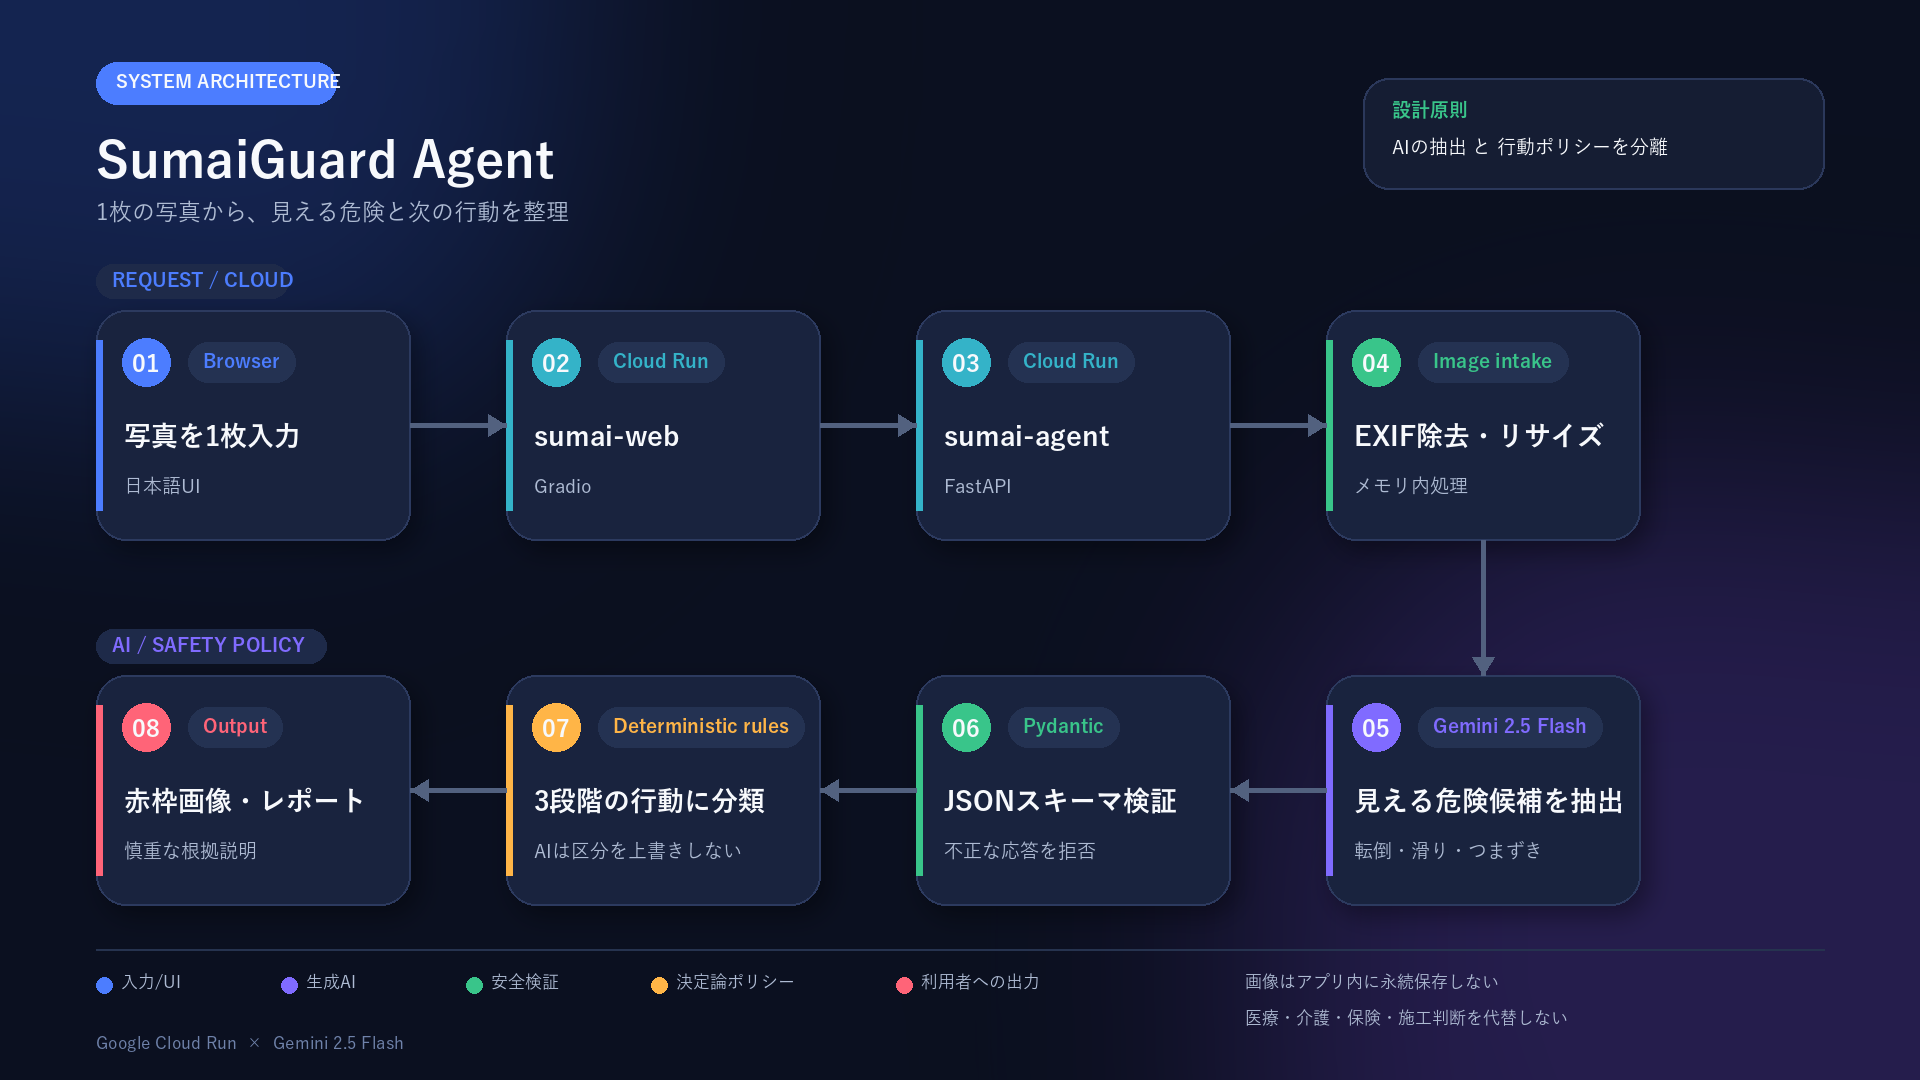
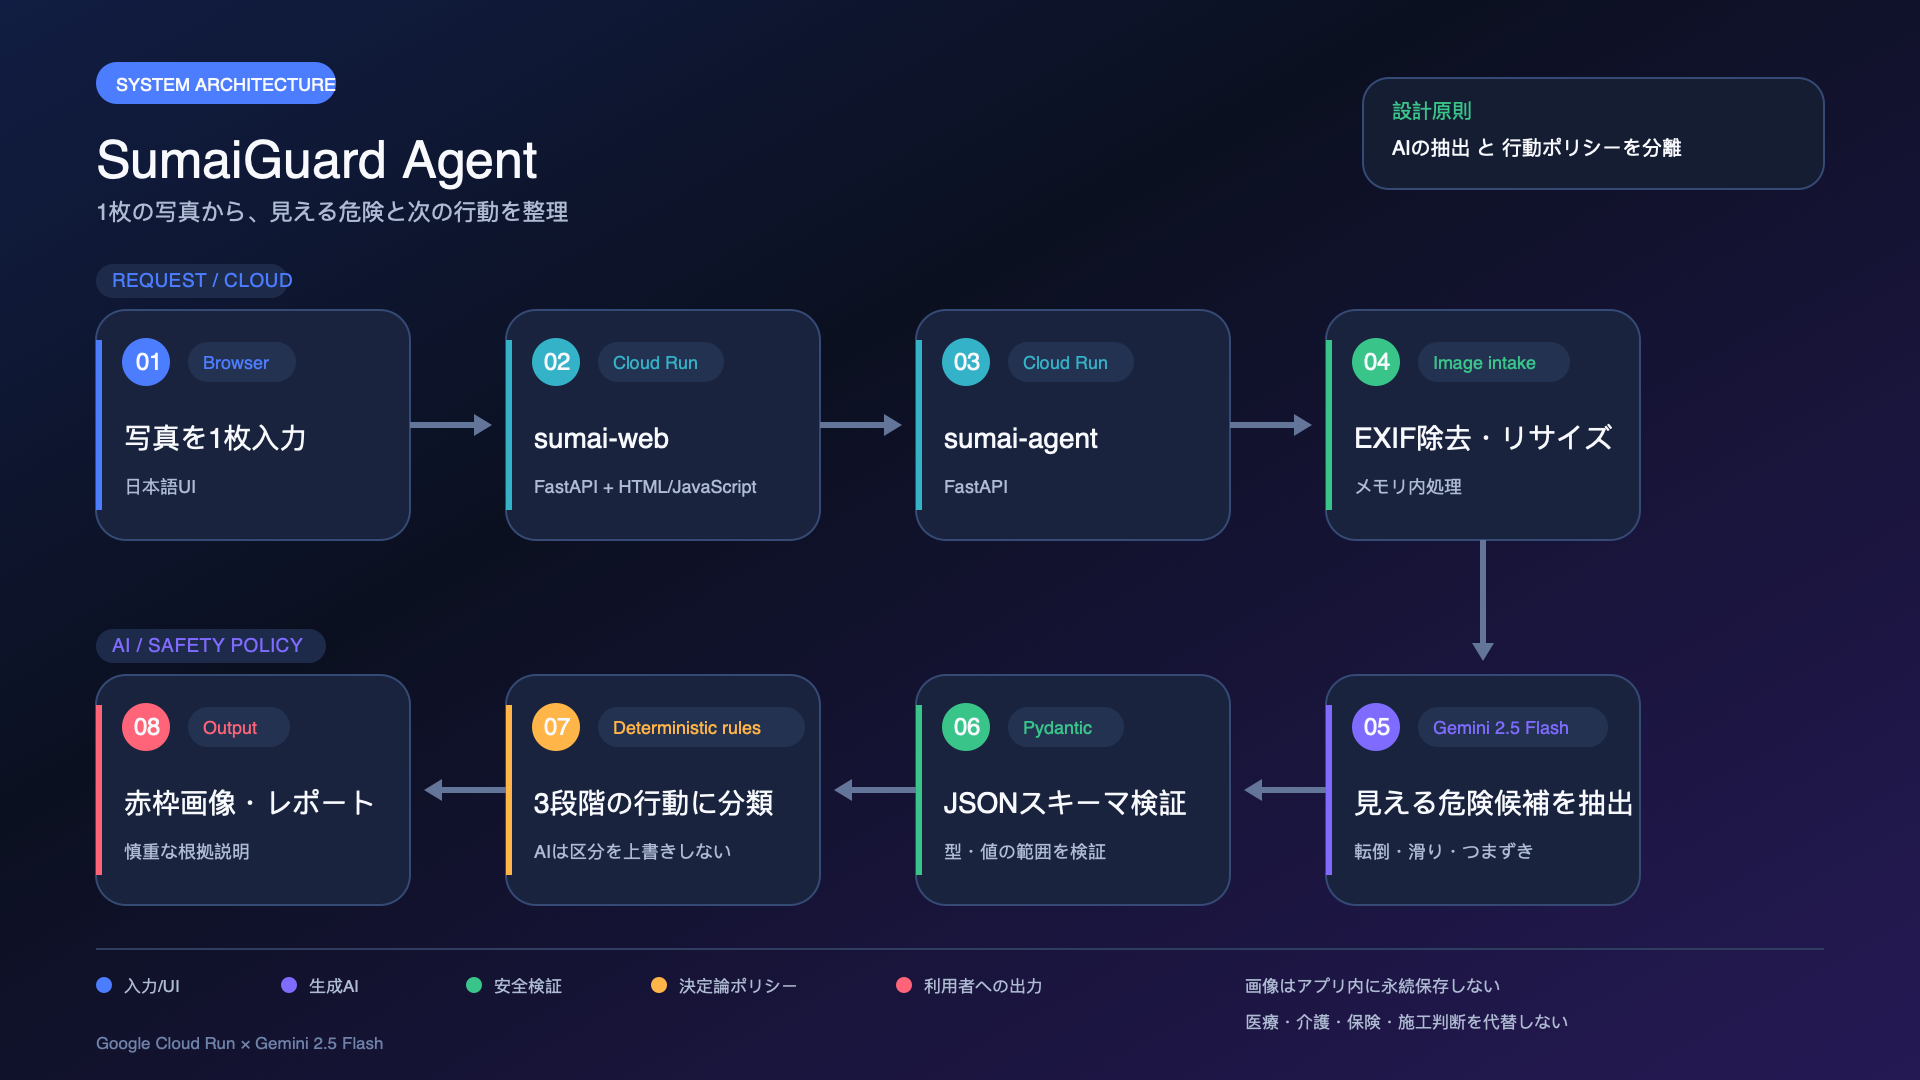
fix: correct ProtoPedia submission evidence

diff --git a/docs/submission/protopedia-draft-ja.md b/docs/submission/protopedia-draft-ja.md
@@ -6,7 +6,7 @@
 
 - **作品タイトル**: 親の家 安全チェックAI：1枚の写真から転倒リスクと次の行動を整理
 - **ステータス**: 開発中（動作する POC / Cloud Run 公開デモ）
-- **ひとこと概要**: 写真1枚から見える転倒リスクを赤枠化し、家族・福祉用具・専門施工の3段階へ整理するAIエージェント。
+- **ひとこと概要**: 写真1枚から見える転倒リスクを赤枠で可視化し、家族・福祉用具・専門施工の3段階へ整理するAIエージェント。
 - **カテゴリ候補**: アプリケーション / データサイエンス・AI・BOT
 - **関連イベント**: DevOps × AI Agent Hackathon 最新ツールでAIエージェント開発を体験しよう（2026）
 - **公開範囲**: 一般公開
@@ -14,7 +14,7 @@
 
 ## タグ
 
-`findy_hackathon` `AI` `生成AI` `AIエージェント` `Gemini` `GoogleCloud` `CloudRun` `FastAPI` `Gradio` `Python` `高齢者住宅` `転倒予防`
+`findy_hackathon` `AI` `生成AI` `AIエージェント` `Gemini` `GoogleCloud` `CloudRun` `FastAPI` `HTML` `JavaScript` `Python` `高齢者住宅` `転倒予防`
 
 必須タグ `findy_hackathon` は表記を変えずに登録します。
 
@@ -24,7 +24,7 @@
 - Gemini 2.5 Flash（Gemini API）
 - Python
 - FastAPI
-- Gradio
+- HTML / CSS / Vanilla JavaScript
 - Pydantic
 - Pillow
 - Docker / Docker Compose
@@ -56,7 +56,7 @@
    高齢者本人の年齢、病歴、介護度、転倒歴などを尋ねず、室内写真と任意の部屋ヒントだけで点検を始めます。
 
 2. **見える根拠を可視化**
-   写真で確認できる危険候補を赤枠と R1 / R2 / R3 のラベルで示し、根拠を慎重な日本語で説明します。写真が住宅内部でない場合や、明確な危険を確認できない場合も扱います。
+   写真で確認できる危険候補を赤枠と日本語ラベルで示し、根拠を慎重な日本語で説明します。写真が住宅内部でない場合や、明確な危険を確認できない場合も扱います。
 
 3. **AI抽出と行動判断を分離**
    Gemini は写真から見える候補の抽出を担当します。返却 JSON は Pydantic スキーマで検証し、その後の行動区分は決定論ルールが担当します。Gemini が「家族でできること」「福祉用具の相談」「専門施工」の境界を上書きしない設計です。
@@ -71,7 +71,7 @@
 
 ## AIエージェントと技術構成
 
-ブラウザから Cloud Run 上の `sumai-web`（Gradio）へ写真を送り、`sumai-agent`（FastAPI）が次の処理を順に実行します。
+ブラウザから Cloud Run 上の `sumai-web`（FastAPI が配信する HTML / CSS / Vanilla JavaScript UI）へ写真を送り、`sumai-agent`（FastAPI）が次の処理を順に実行します。
 
 1. 画像をメモリ上で読み込み、EXIF 除去、向き補正、RGB 化、最大 1600 px への縮小を実施
 2. Gemini 2.5 Flash が住宅内部かを確認し、写真で見える危険候補と正規化座標を構造化 JSON で抽出
@@ -105,8 +105,9 @@
 ## システム構成画像
 
 - **ファイル**: `docs/submission/assets/sumai-guard-architecture.png`
+- **編集可能な原本**: `docs/submission/assets/sumai-guard-architecture.svg`
 - **サイズ**: 1920×1080
-- **説明文**: Browser → Cloud Run（sumai-web / sumai-agent）→ EXIF除去・リサイズ → Gemini 2.5 Flash → Pydantic スキーマ検証 → 決定論ルール → 赤枠画像・レポート、という責務分離を示しています。
+- **説明文**: Browser → Cloud Run（FastAPI + HTML / JavaScript の sumai-web、FastAPI の sumai-agent）→ EXIF除去・リサイズ → Gemini 2.5 Flash → Pydantic スキーマ検証 → 決定論ルール → 赤枠画像・レポート、という責務分離を示しています。
 
 ## 掲載画像候補
 
@@ -114,10 +115,39 @@
 |---|---|---|---:|
 | 1 | `docs/submission/assets/01-photo-input.png` | 質問票なし、写真1枚から始める入力画面 | 17.5 秒 |
 | 2 | `docs/submission/assets/02-real-gemini-analysis.png` | Cloud Run × Gemini 2.5 Flash の分析状態 | 27.2 秒 |
-| 3 | `docs/submission/assets/03-visible-risk-result.png` | 赤枠と根拠説明による可視化 | 36.0 秒 |
+| 3 | `docs/submission/assets/03-visible-risk-result.png` | 赤枠と根拠説明による可視化 | 31.5 秒 |
 | 4 | `docs/submission/assets/04-action-tiers.png` | 決定論ルールによる3段階の次の行動 | 51.5 秒 |
 
 4枚はいずれも、SHA-256 が `d55207a2…6207` の最終成片から 1920×1080 のまま抽出しています。
+
+## 素材の再生成
+
+システム構成 PNG は、編集可能な SVG 原本を macOS 標準の `sips` で描画し、Pillow で変換時のメタデータを除去して再生成できます。
+
+```bash
+TMP_PNG=/tmp/sumai-guard-architecture-render.png
+rm -f "$TMP_PNG"
+sips -s format png docs/submission/assets/sumai-guard-architecture.svg --out "$TMP_PNG"
+
+python - "$TMP_PNG" docs/submission/assets/sumai-guard-architecture.png <<'PY'
+import sys
+from PIL import Image
+
+with Image.open(sys.argv[1]) as image:
+    image.convert("RGBA").save(sys.argv[2], format="PNG", optimize=True)
+PY
+```
+
[1 lines of base64/hex data omitted]
+
+```bash
+VIDEO=/Users/zhanglonglong/Movies/SumaiGuard-Hackathon-2026/sumai-guard-hackathon-demo-2026.mp4
+
+ffmpeg -i "$VIDEO" -vf "select='eq(n,525)'"  -vsync 0 -frames:v 1 docs/submission/assets/01-photo-input.png
+ffmpeg -i "$VIDEO" -vf "select='eq(n,816)'"  -vsync 0 -frames:v 1 docs/submission/assets/02-real-gemini-analysis.png
+ffmpeg -i "$VIDEO" -vf "select='eq(n,945)'"  -vsync 0 -frames:v 1 docs/submission/assets/03-visible-risk-result.png
+ffmpeg -i "$VIDEO" -vf "select='eq(n,1545)'" -vsync 0 -frames:v 1 docs/submission/assets/04-action-tiers.png
+```
 
 ## 免責・制約
 
